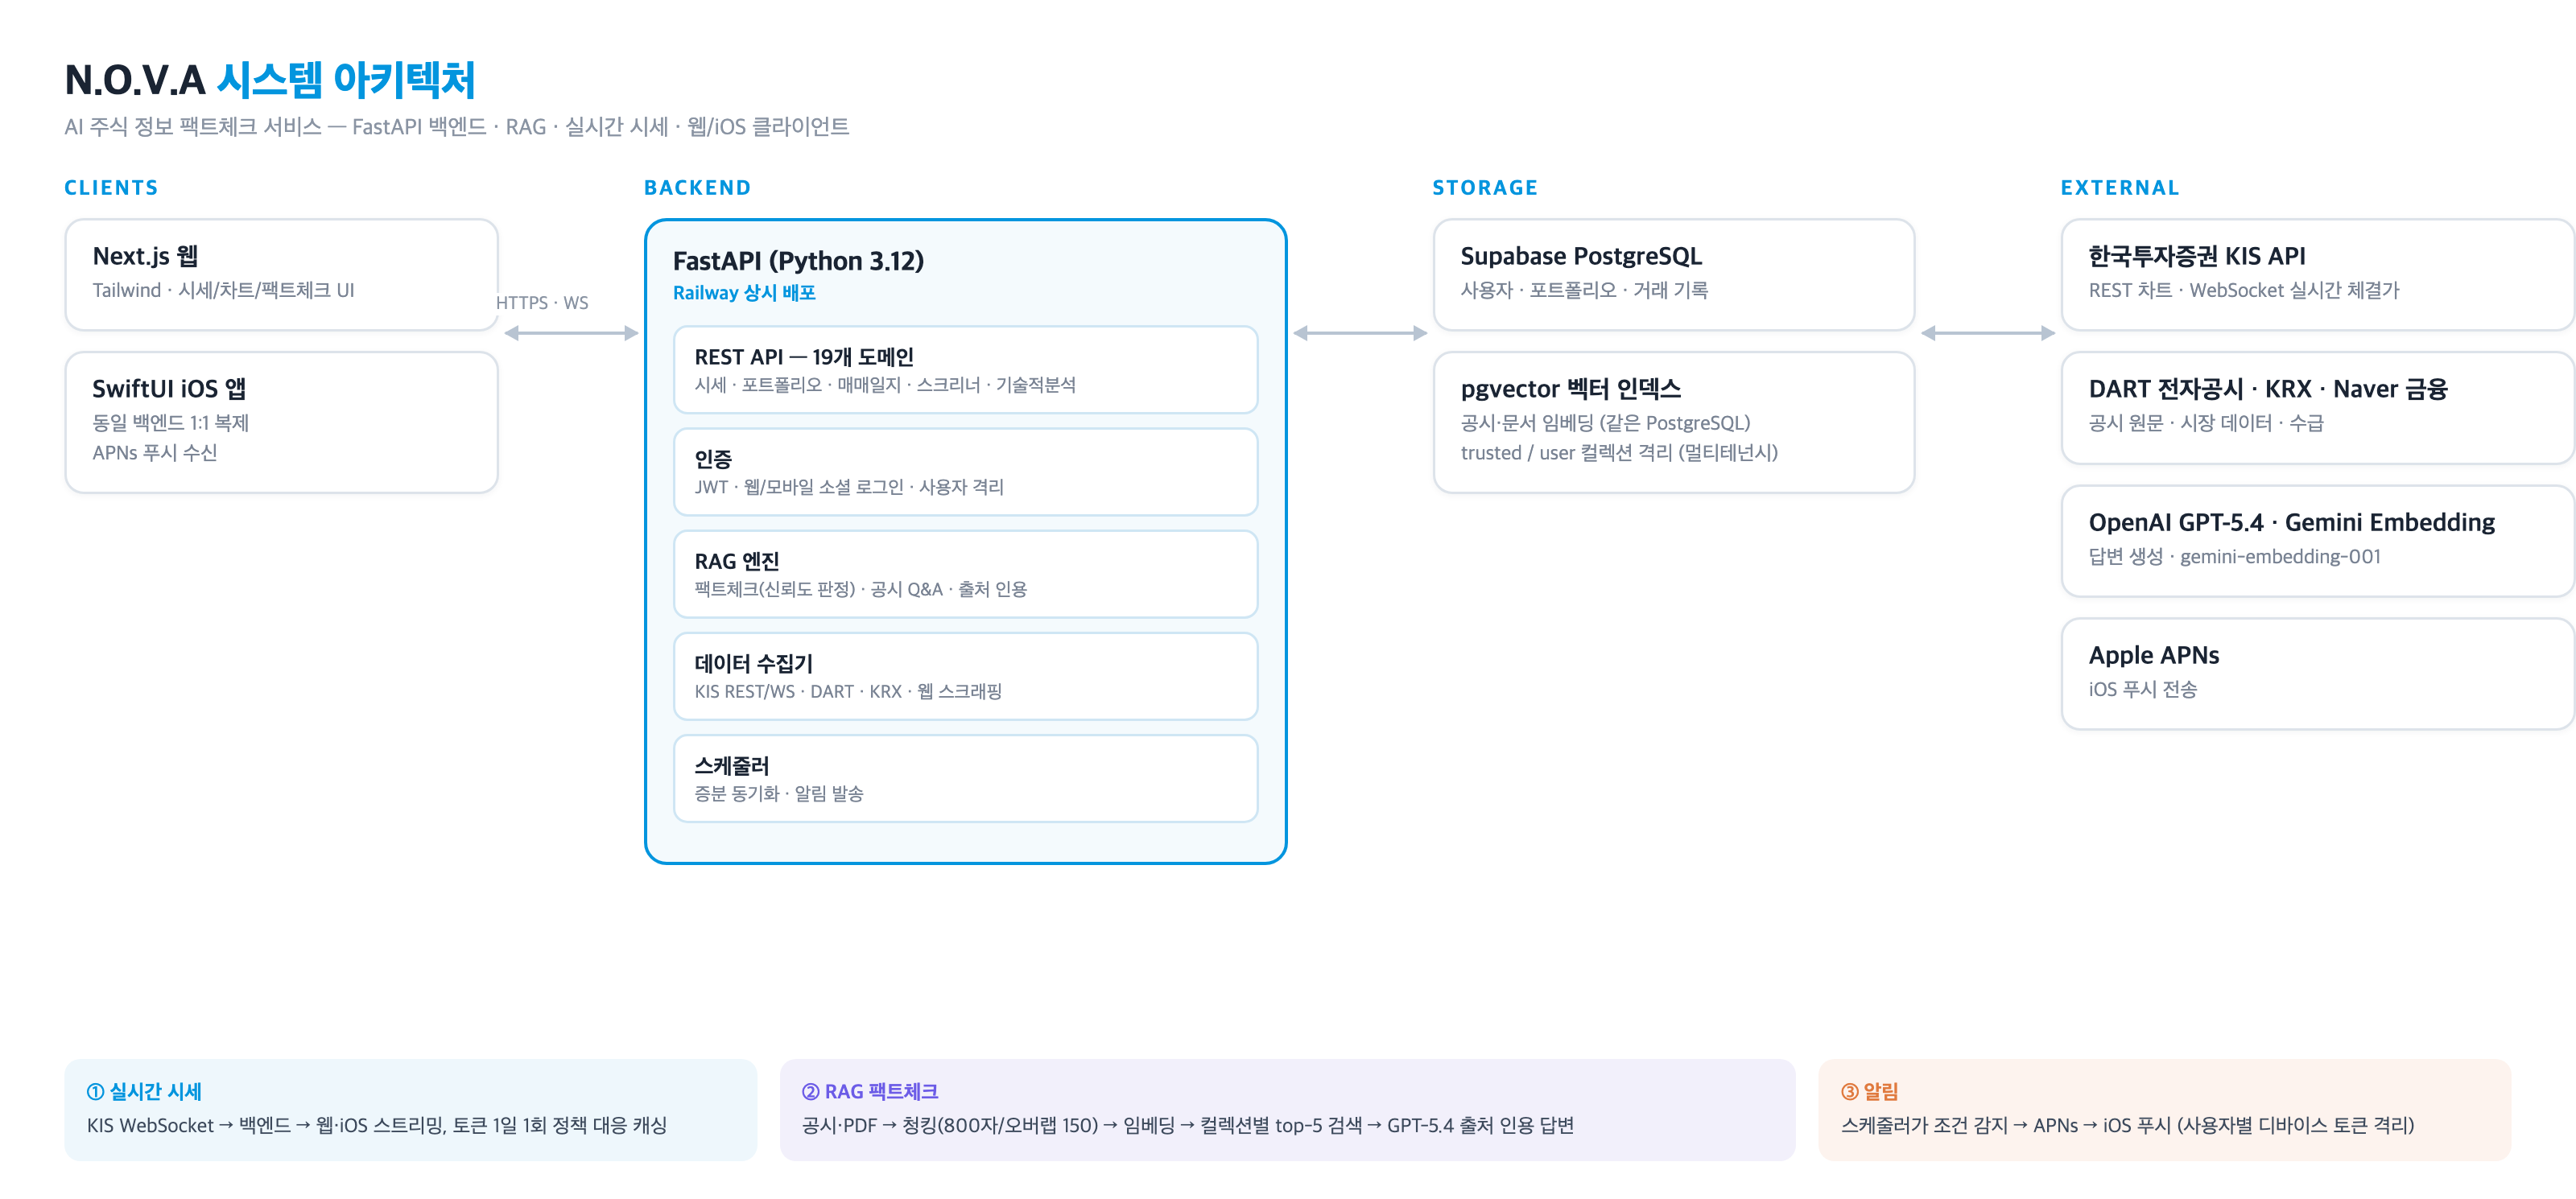
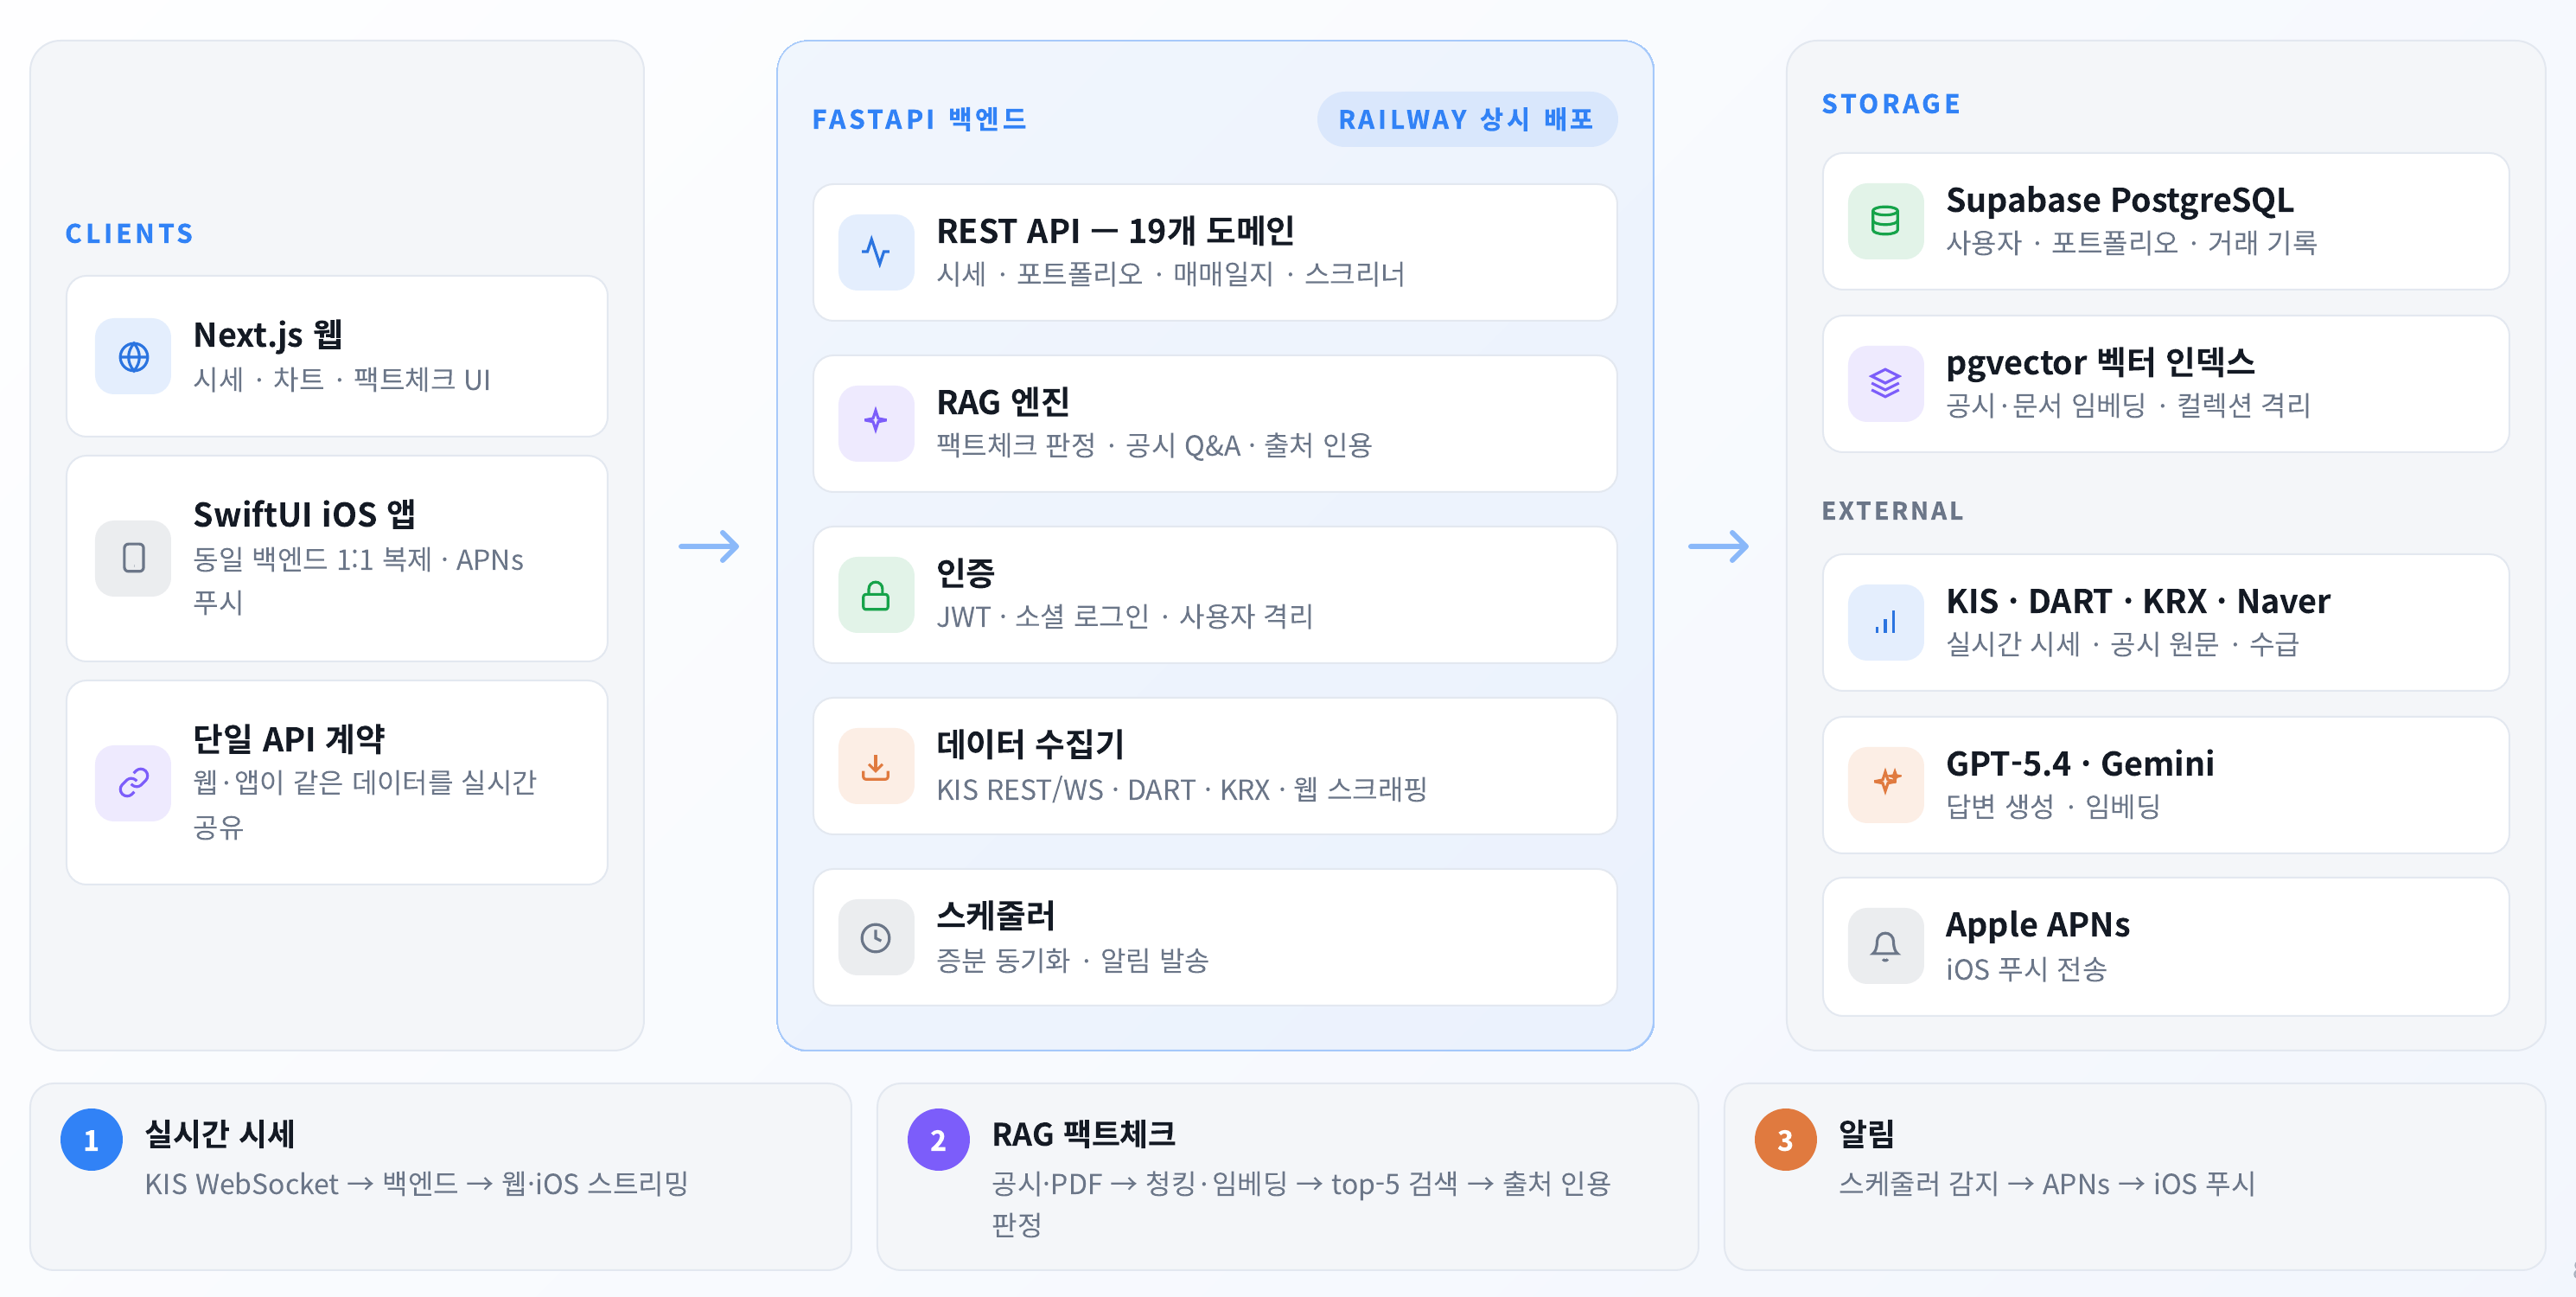
fix: NOVA 1페이지 수납 — 그림 높이 축소, 아키텍처를 패널형 신버전으로 교체

diff --git a/examples/portfolio/p11_nova.tex b/examples/portfolio/p11_nova.tex
@@ -8,7 +8,7 @@
 \cvsection{1. Personal Project : N.O.V.A — AI 주식 정보 팩트체크 서비스 (웹·iOS 실배포)}
 
 \projsummary{KIS 실시간 시세와 DART 공시 RAG를 결합해 리포트·지라시를 교차검증하는 풀스택 주식 서비스 --- 백엔드·웹·iOS 개발과 클라우드 배포·운영까지}
-\projfigL[7.6cm]{p11.jpg}
+\projfigL[6.8cm]{p11.jpg}
 
 \projpart{\faBookOpen\hspace{1.3mm}배경 및 목표}
 \begin{cvitems}
@@ -20,7 +20,7 @@
 \end{cvitems}
 
 \projpart{\faScrewdriverWrench\hspace{1.3mm}시스템 아키텍처}
-\projfigL[7.0cm]{p11pipe.png}
+\projfigL[6.2cm]{p11pipe.png}
 
 \newpage
 \projpart{\faMagnifyingGlass\hspace{1.3mm}설계 과정 및 수행 내용}